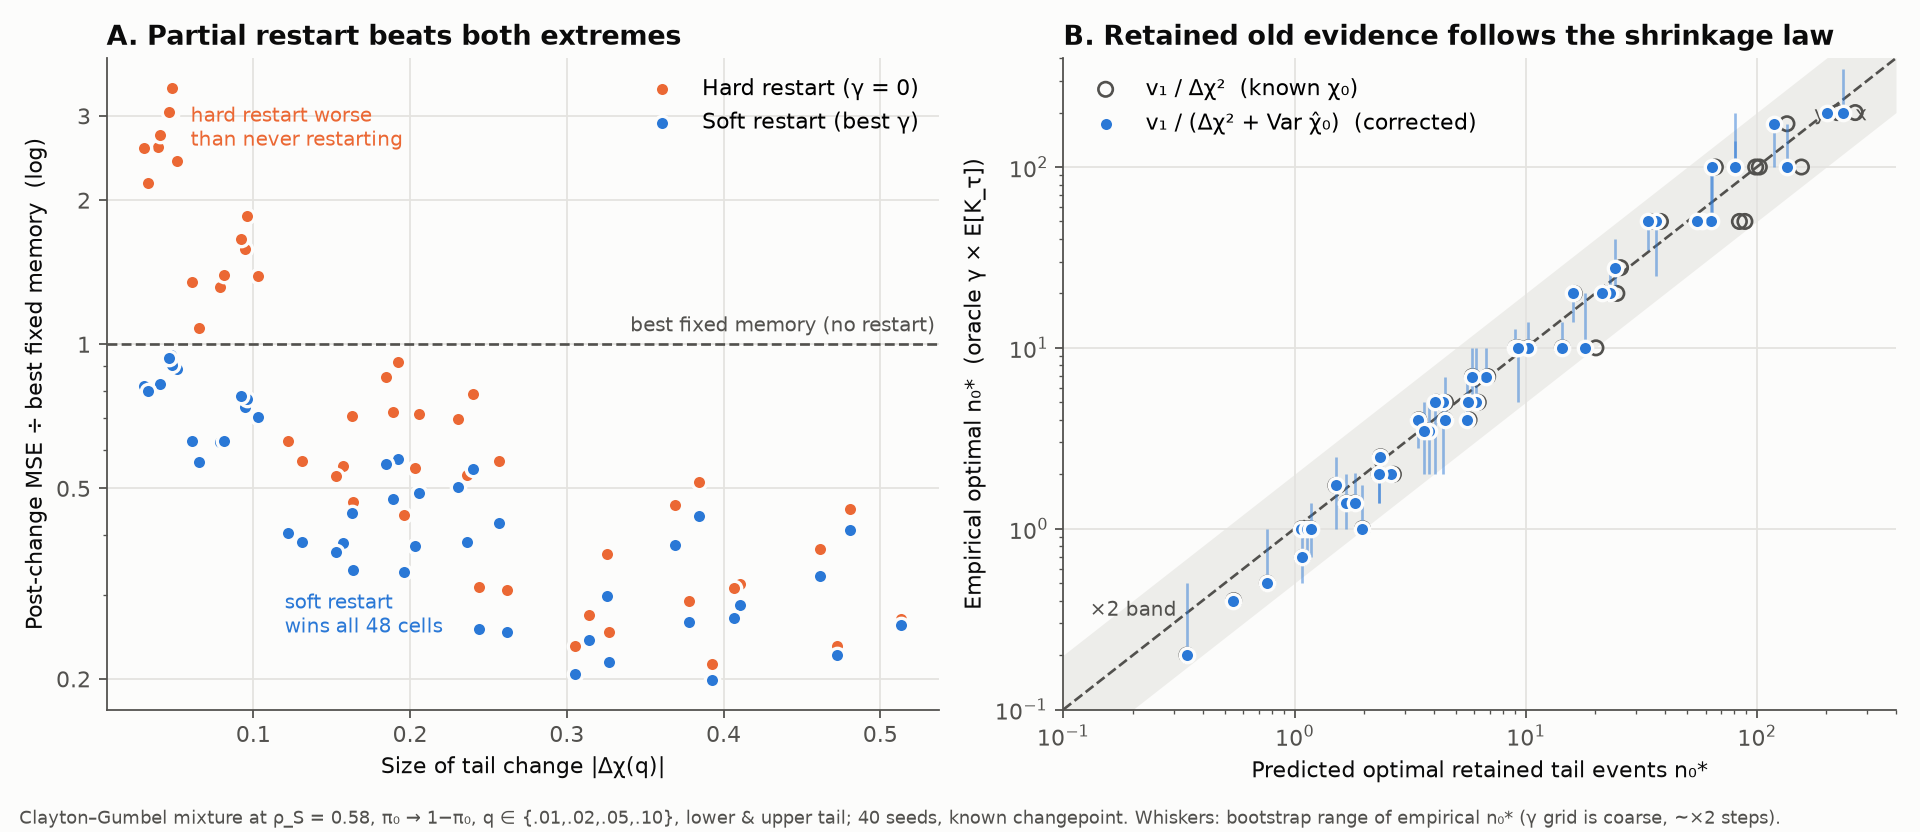
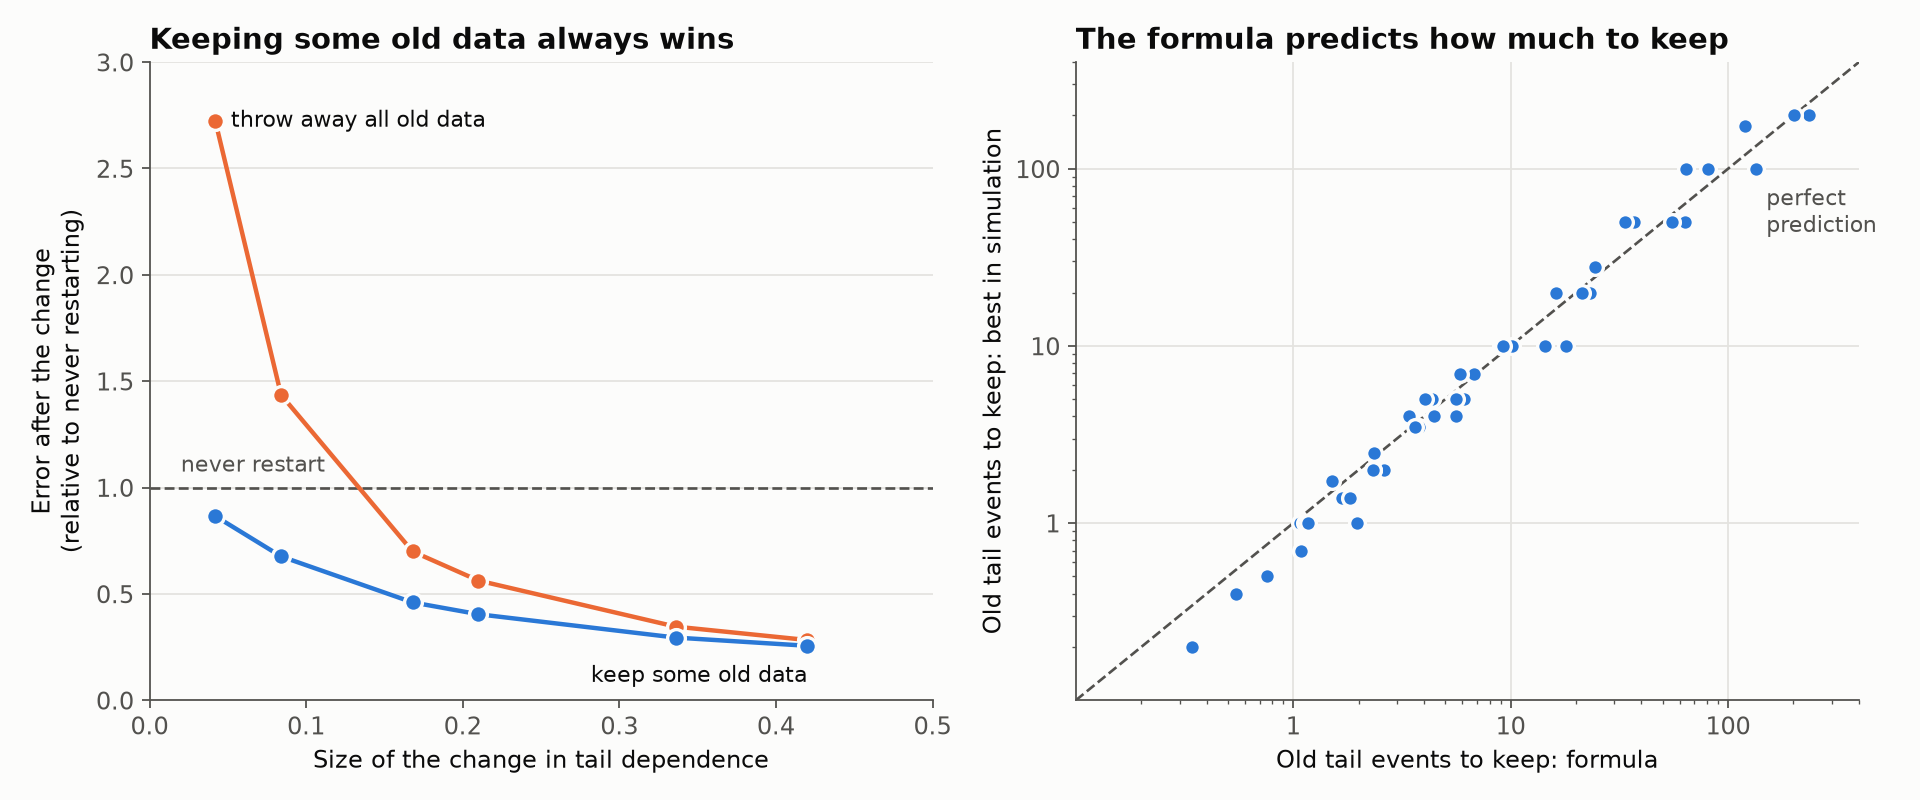
tail_dependence: simplify step-3b figure
Claude-Session: https://claude.ai/code/session_01GCr3WNRDgnBHgxDshYoQ5y

diff --git a/experiments/plot_tail_soft.py b/experiments/plot_tail_soft.py
@@ -43,39 +43,45 @@ for name, p in (("v/dchi^2", p_old), ("v/(dchi^2+Var)", p_new)):
     s, r2, med, w2 = fit(p)
     print(f"{name:16s} slope {s:.3f}  R2 {r2:.3f}  median emp/pred {med:.2f}  within x2 {w2}/48")
 
-plt.rcParams.update({"font.size": 10, "axes.edgecolor": INK2, "axes.labelcolor": INK, "xtick.color": INK2,
+import statistics
+groups = {}
+for r, dd, rs, rh in zip(rows, d, ratio_s, ratio_h):
+    groups.setdefault(r["pi0"], []).append((dd, rs, rh))
+gx, gs, gh = [], [], []
+for k in sorted(groups, key=float):
+    g = groups[k]
+    gx.append(statistics.mean(x[0] for x in g))
+    gs.append(statistics.geometric_mean(x[1] for x in g))
+    gh.append(statistics.geometric_mean(x[2] for x in g))
+
+plt.rcParams.update({"font.size": 11, "axes.edgecolor": INK2, "axes.labelcolor": INK, "xtick.color": INK2,
                      "ytick.color": INK2, "axes.spines.top": False, "axes.spines.right": False})
-fig, (a, b) = plt.subplots(1, 2, figsize=(12, 5.2), facecolor="#fcfcfb")
+fig, (a, b) = plt.subplots(1, 2, figsize=(12, 5), facecolor="#fcfcfb")
 for ax in (a, b):
-    ax.set_facecolor("#fcfcfb"); ax.grid(True, which="major", color=GRID, lw=0.8); ax.set_axisbelow(True)
+    ax.set_facecolor("#fcfcfb"); ax.grid(True, axis="y", color=GRID, lw=0.8); ax.set_axisbelow(True)
 
 a.axhline(1, color=INK2, lw=1.2, ls="--")
-a.text(0.535, 1.04, "best fixed memory (no restart)", color=INK2, ha="right", va="bottom", fontsize=9)
-a.scatter(d, ratio_h, s=42, color=HARD, edgecolor="#fcfcfb", lw=1.5, label="Hard restart (γ = 0)", zorder=3)
-a.scatter(d, ratio_s, s=42, color=SOFT, edgecolor="#fcfcfb", lw=1.5, label="Soft restart (best γ)", zorder=3)
-a.set_yscale("log"); a.yaxis.set_minor_formatter(matplotlib.ticker.NullFormatter()); a.set_yticks([0.2, 0.5, 1, 2, 3]); a.set_yticklabels(["0.2", "0.5", "1", "2", "3"])
-a.set_xlabel("Size of tail change |Δχ(q)|"); a.set_ylabel("Post-change MSE ÷ best fixed memory  (log)")
-a.set_title("A. Partial restart beats both extremes", loc="left", fontweight="bold", color=INK)
-a.text(0.06, 2.6, "hard restart worse\nthan never restarting", color=HARD, fontsize=9)
-a.text(0.12, 0.25, "soft restart\nwins all 48 cells", color=SOFT, fontsize=9)
-a.legend(frameon=False, loc="upper right")
+a.text(0.02, 1.05, "never restart", color=INK2, fontsize=10, va="bottom")
+a.plot(gx, gh, color=HARD, lw=2, marker="o", ms=8, mec="#fcfcfb", mew=1.5)
+a.plot(gx, gs, color=SOFT, lw=2, marker="o", ms=8, mec="#fcfcfb", mew=1.5)
+a.text(gx[0] + 0.01, gh[0], "throw away all old data", color=INK, fontsize=10, va="center")
+a.text(gx[-1], gs[-1] - 0.09, "keep some old data", color=INK, fontsize=10, ha="right", va="top")
+a.set_ylim(0, 3); a.set_xlim(0, 0.5)
+a.set_xlabel("Size of the change in tail dependence")
+a.set_ylabel("Error after the change\n(relative to never restarting)")
+a.set_title("Keeping some old data always wins", loc="left", fontweight="bold", color=INK)
 
 lim = (0.1, 400)
 b.plot(lim, lim, color=INK2, lw=1.2, ls="--")
-b.fill_between(lim, [x / 2 for x in lim], [x * 2 for x in lim], color=GRID, alpha=0.6, lw=0)
-b.text(300, 220, "y = x", color=INK2, fontsize=9, ha="right", va="top")
-b.text(0.13, 0.33, "×2 band", color=INK2, fontsize=9)
-b.scatter(p_old, emp, s=42, facecolor="none", edgecolor=INK2, lw=1.2, label="v₁ / Δχ²  (known χ₀)", zorder=3)
-b.errorbar(p_new, emp, yerr=[[e - l for e, l in zip(emp, lo)], [h - e for e, h in zip(emp, hi)]], fmt="none",
-           ecolor=SOFT, alpha=0.5, lw=1.2, zorder=3)
-b.scatter(p_new, emp, s=42, color=SOFT, edgecolor="#fcfcfb", lw=1.5, label="v₁ / (Δχ² + Var χ̂₀)  (corrected)", zorder=4)
+b.text(150, 80, "perfect\nprediction", color=INK2, fontsize=10, ha="left", va="top")
+b.scatter(p_new, emp, s=50, color=SOFT, edgecolor="#fcfcfb", lw=1.5, zorder=3)
 b.set_xscale("log"); b.set_yscale("log"); b.set_xlim(lim); b.set_ylim(lim)
-b.set_xlabel("Predicted optimal retained tail events n₀*"); b.set_ylabel("Empirical optimal n₀*  (oracle γ × E[K_τ])")
-b.set_title("B. Retained old evidence follows the shrinkage law", loc="left", fontweight="bold", color=INK)
-b.legend(frameon=False, loc="upper left")
+b.set_xticks([1, 10, 100]); b.set_xticklabels(["1", "10", "100"])
+b.set_yticks([1, 10, 100]); b.set_yticklabels(["1", "10", "100"])
+b.grid(True, axis="x", color=GRID, lw=0.8)
+b.set_xlabel("Old tail events to keep: formula")
+b.set_ylabel("Old tail events to keep: best in simulation")
+b.set_title("The formula predicts how much to keep", loc="left", fontweight="bold", color=INK)
 
-fig.text(0.01, 0.01, "Clayton–Gumbel mixture at ρ_S = 0.58, π₀ → 1−π₀, q ∈ {.01,.02,.05,.10}, lower & upper tail; "
-         "40 seeds, known changepoint. Whiskers: bootstrap range of empirical n₀* (γ grid is coarse, ~×2 steps).",
-         fontsize=8, color=INK2)
-fig.tight_layout(rect=(0, 0.03, 1, 1))
+fig.tight_layout()
 fig.savefig("../notes/studies/figures/tail_soft.png", dpi=160, facecolor=fig.get_facecolor())

diff --git a/notes/studies/tail_dependence.md b/notes/studies/tail_dependence.md
@@ -328,9 +328,9 @@ refined grid on fresh seeds is the check:
 
 ![Step 3b](figures/tail_soft.png)
 
-*Figure (`experiments/plot_tail_soft.py`). A: post-change MSE relative to the best fixed memory;
-hard restart is worse than never restarting for $|\Delta\chi|\lesssim0.1$, soft restart wins every cell.
-B: empirical $n_0^*$ (bootstrap whiskers) against both predictions.*
+*Figure (`experiments/plot_tail_soft.py`). Left: post-change MSE relative to the best fixed memory,
+geometric mean over the 8 (q, tail) cells at each change size; x is the mean $|\Delta\chi|$. Right:
+empirical $n_0^*$ against $v_\text{post}/(\Delta\chi^2+\operatorname{Var}\hat\chi_0)$, all 48 cells.*
 
 - So the soft restart is Bayesian shrinkage: after a break, the old regime is worth about
   $v/\Delta\chi^2$ events of prior, never more, however much of it was observed.
